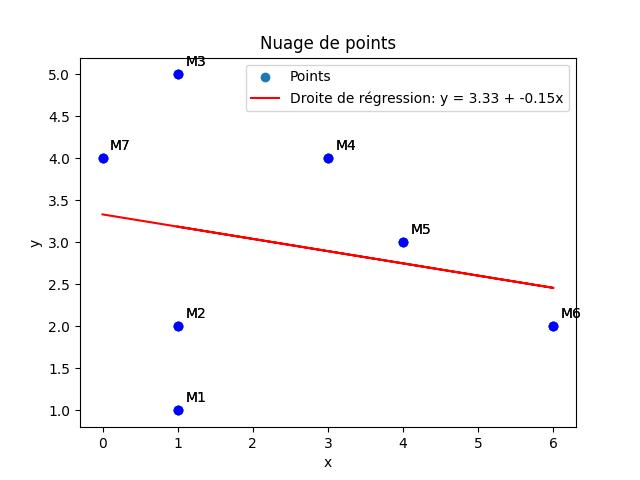
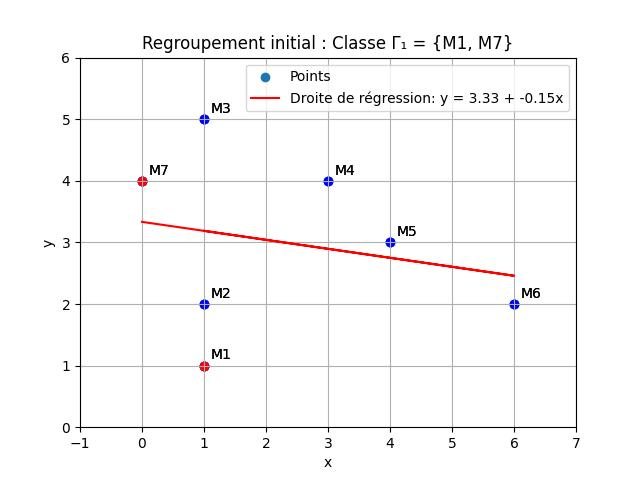
update partie 5

diff --git a/projet.py b/projet.py
@@ -292,9 +292,9 @@ print(data.round(1))
 
 
 # Encadrer M1 et M7 (Classe Γ₁)
-x_vals = [points["M1"][0], points["M7"][0]]
-y_vals = [points["M1"][1], points["M7"][1]]
-plt.plot(x_vals, y_vals, 'ro--')
+x_vals = [points[0][0], points[6][0]]
+y_vals = [points[0][1], points[6][1]]
+#plt.plot(x_vals, y_vals, 'ro--')
 plt.scatter(x_vals, y_vals, color='red')
 plt.title("Regroupement initial : Classe Γ₁ = {M1, M7}")
 plt.grid(True)
